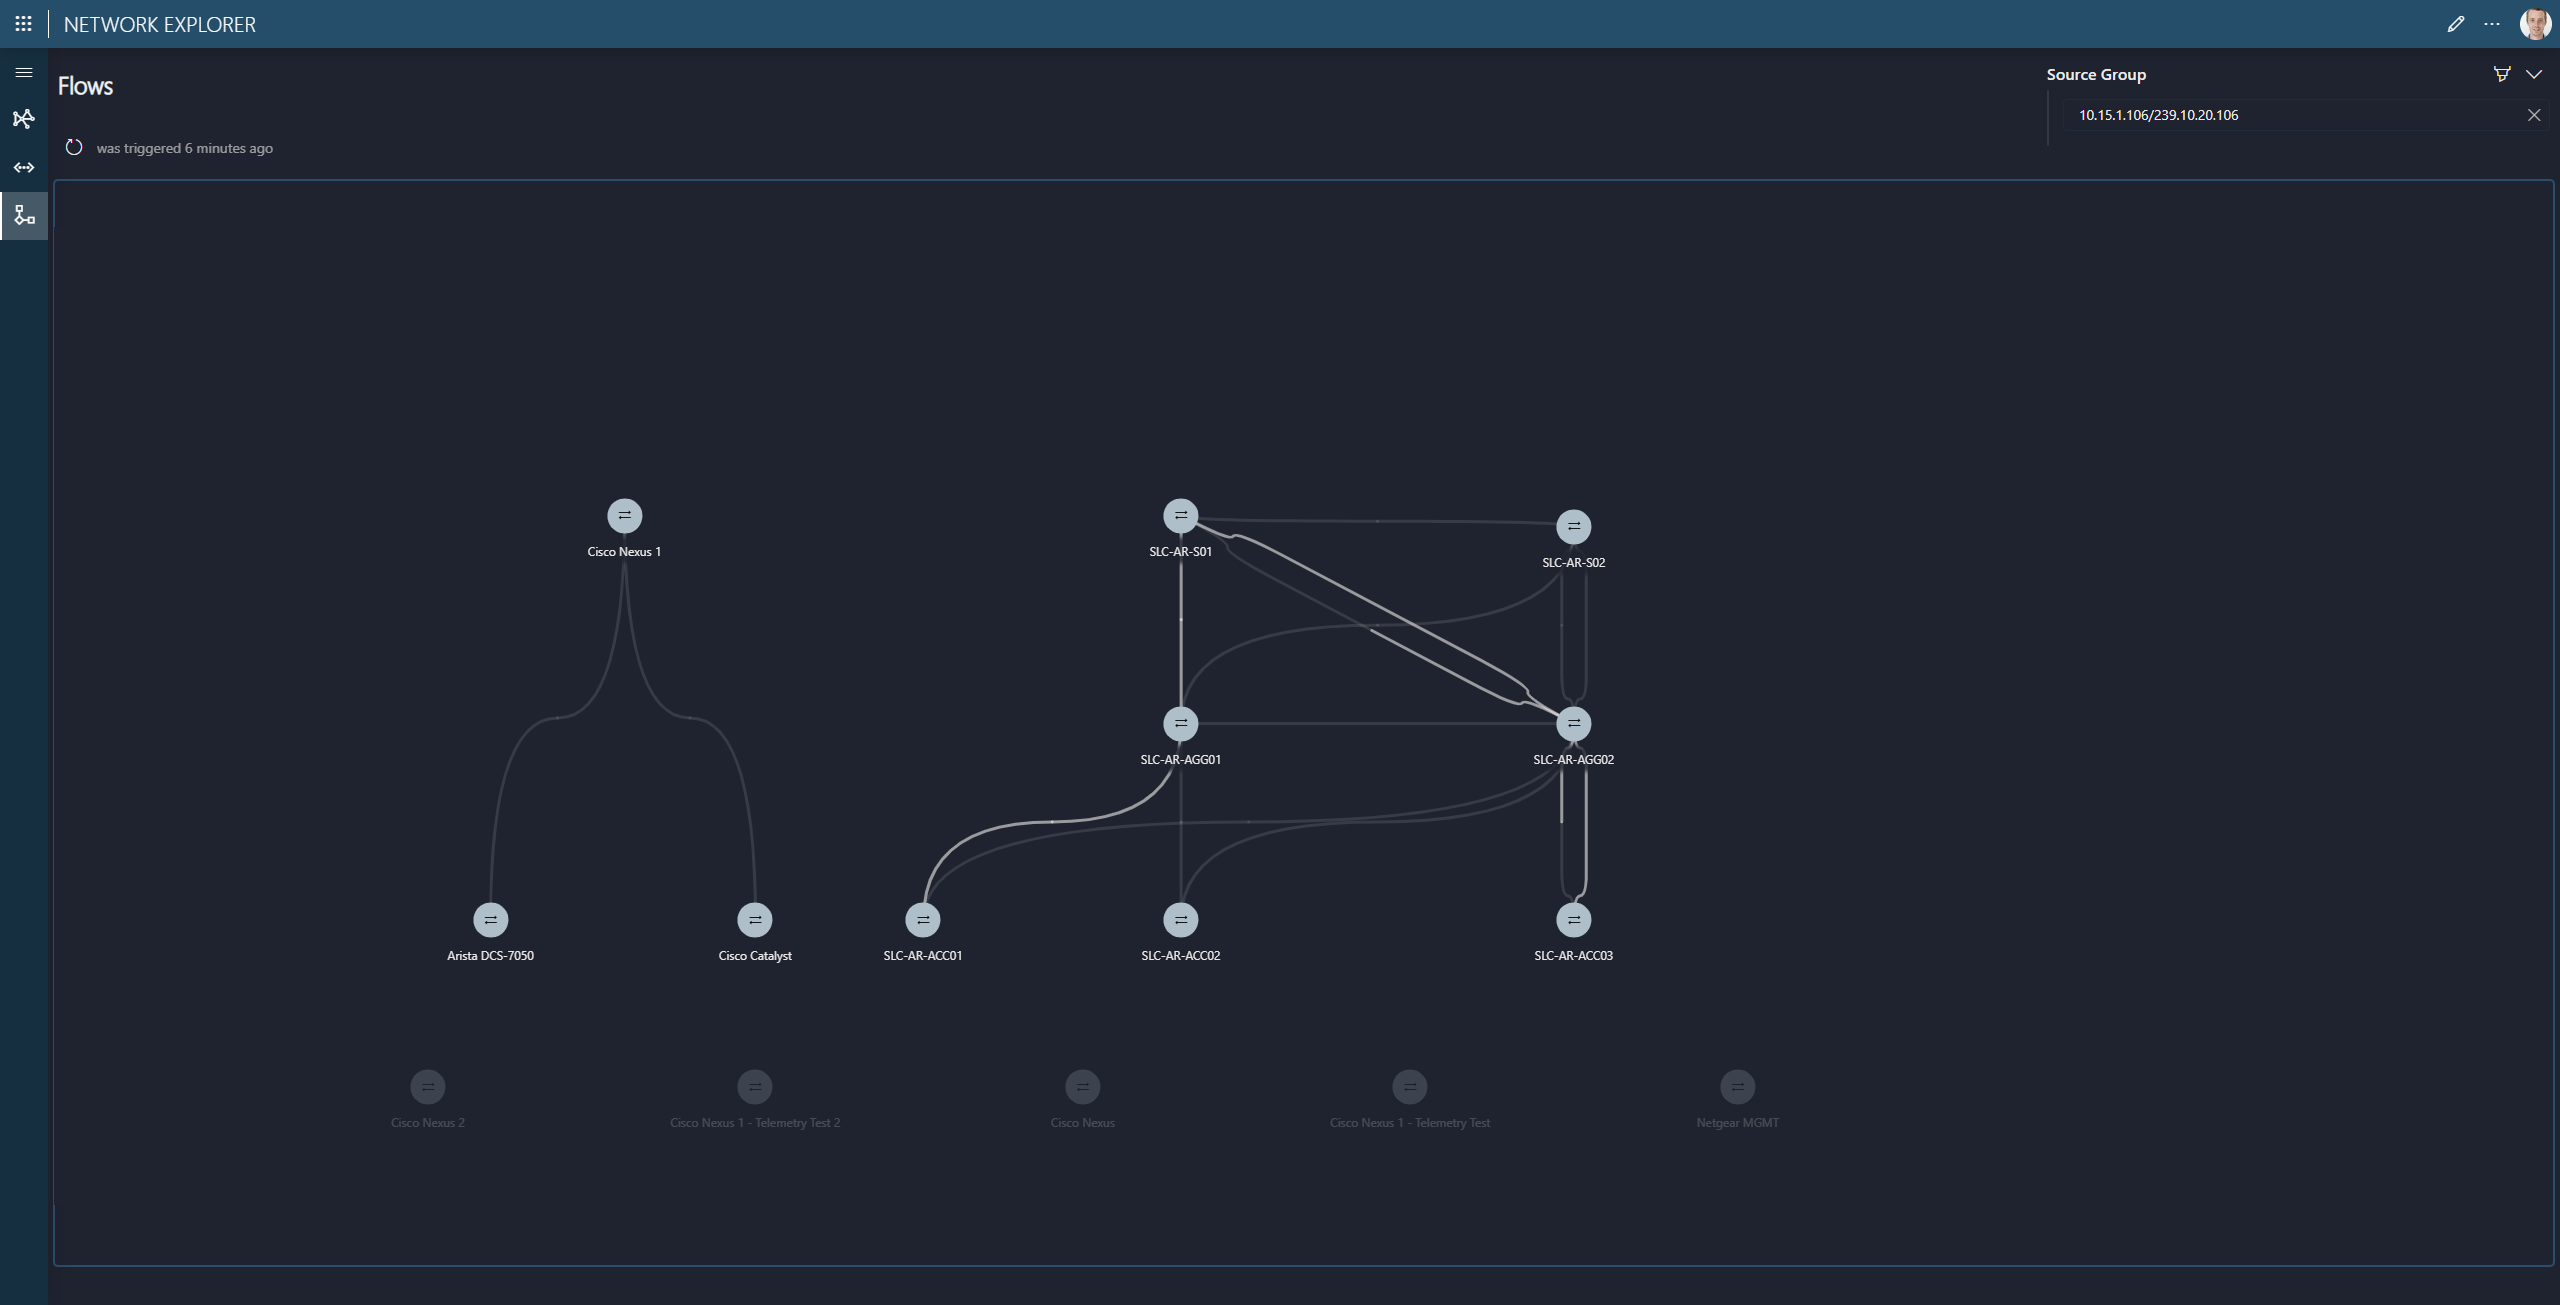
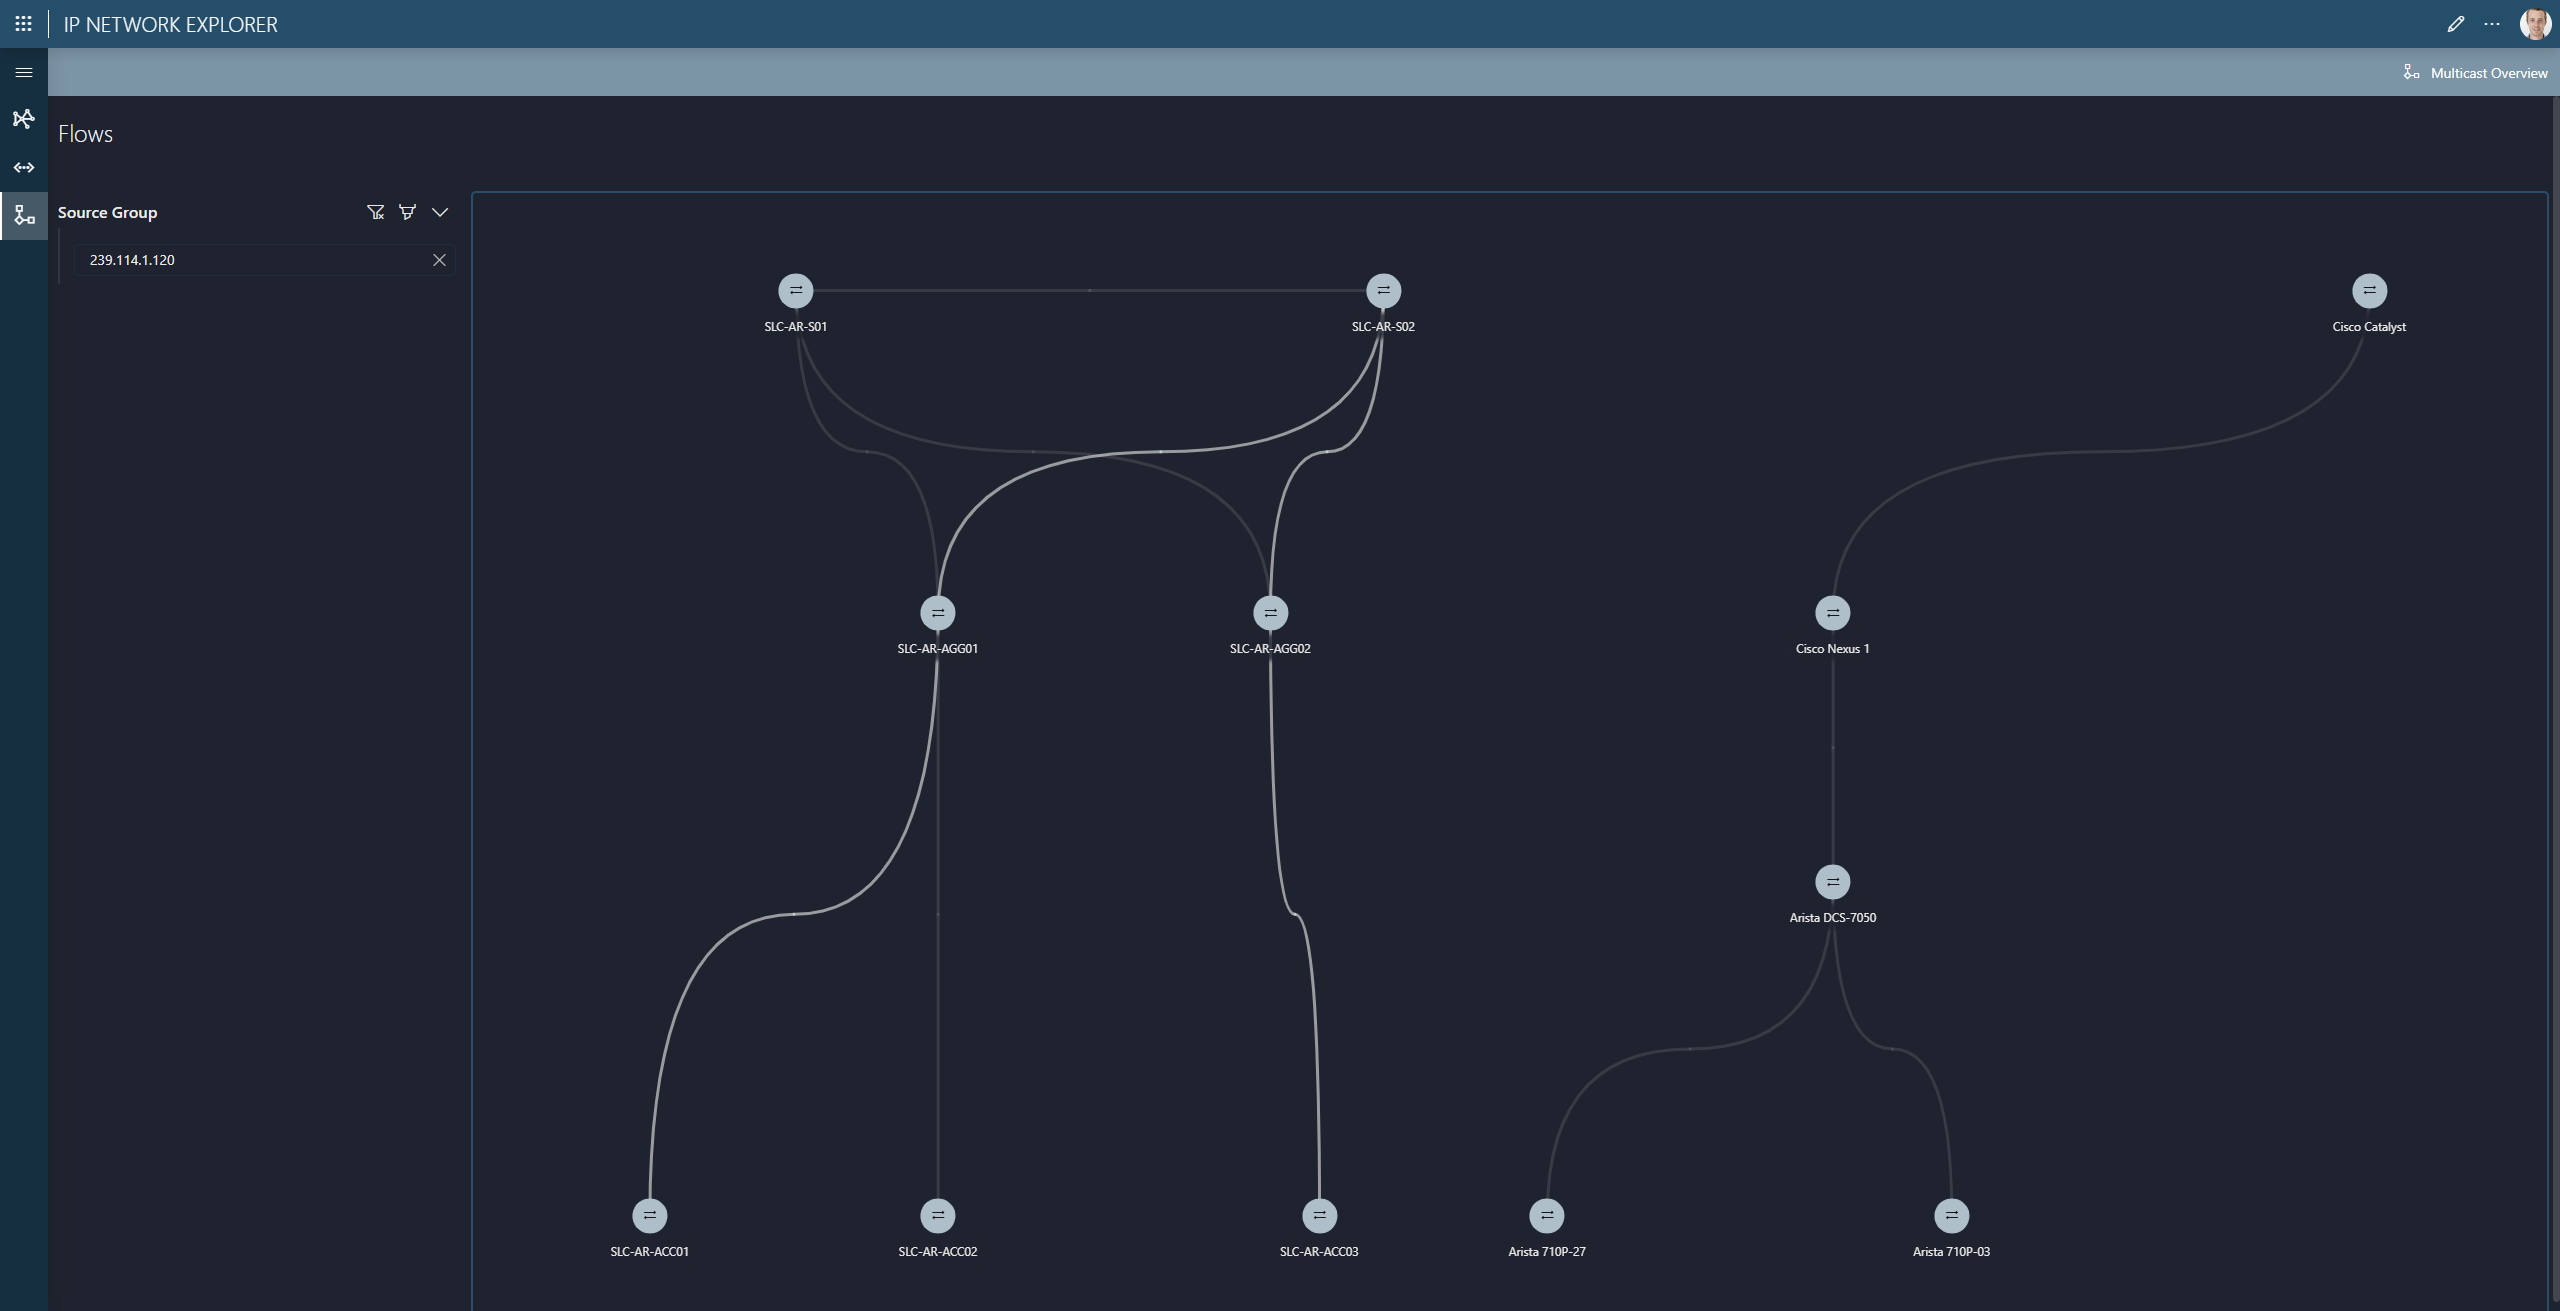
Added info on the new topologies feature

diff --git a/solutions/standard_solutions/IP_Network_Explorer/NetworkExplorer_UI_overview.md b/solutions/standard_solutions/IP_Network_Explorer/NetworkExplorer_UI_overview.md
@@ -12,6 +12,16 @@ Both network devices and connections are color-coded to reflect their status.
 
 Click any [device](#device-details) or [connection](#connection-details) to view more details.
 
+A topology selector is available in the upper right-hand corner of the Topology view.
+This dropdown allows you to select one of the available topologies to display.
+Topologies make it possible to:
+- Visualize the same network segments in different ways
+- Focus on specific parts of the network
+- Create clearer overviews for different operational needs
+- Separate logical, geographical, or functional network structures
+
+When a topology is selected, the view updates immediately to reflect the chosen configuration.
+
 ![Topology](~/solutions/images/NS_manual_topology.png)
 
 When hovering over a connection, you can use the dot in the upper-right corner of the details window to choose which metric is displayed and used to color the lines.
@@ -52,7 +62,7 @@ Using the Compare button in the menu bar, you can view the ports of two devices 
 
 The **Flows** page is similar to the **Topology** page but is specifically used to track multicast traffic in your network.
 
-Use the **filter box** in the top-right corner to find a multicast flow.
+Use the **filter box** on the left-hand side to find a multicast flow.
 
 You can filter by:
 
@@ -64,6 +74,39 @@ You can filter by:
 
 ## Application settings
 
-In the application settings window, you can update the default IP scan range and adjust the automatic removal behavior for removed connections.
+In the application settings window, you can manage the different topologies, update the default IP scan range and adjust the automatic removal behavior for removed connections.
 
 To access the application settings, click the *About* button in the top-right corner and then click the *Settings* button at the top of window.
+
+![Settings](~/solutions/images/NS_manual_settings.png)
+
+### Topology settings
+
+You can also use the ADD button in the upper right-hand corner of the application to create a new topology.
+In the overview list of the topologies you can use the pencil icon to Edit an existing topology or the trashcan icon to Delete a topology.
+
+#### Creating a Topology
+
+When creating a new topology, the following information is required:
+
+1. Unique Name
+
+Each topology must have a unique name.
+This name will appear in the topology selection dropdown.
+
+1. View Selection
+
+You must select a View.
+The selected view determines which network elements are displayed in the topology.
+
+Only elements that are:
+- Present in the selected view
+- Present in its subviews
+
+will be included in the topology.
+
+This allows you to create filtered and purpose-driven network visualizations based on your existing view structure.
+
+Changes take effect immediately and will be reflected in the topology selector.
+
+![ADD Topology](~/solutions/images/NS_manual_add_topology.png)

diff --git a/solutions/standard_solutions/IP_Network_Explorer/NetworkExplorer_Supported_Devices_and_Protocols.md b/solutions/standard_solutions/IP_Network_Explorer/NetworkExplorer_Supported_Devices_and_Protocols.md
@@ -12,6 +12,7 @@ The IP Network Explorer supports all equipment that can be monitored using the f
 - Arista eOS Manager
 - Cisco Nexus
 - Cisco NxOS Manager
+- Cisco XrOS Manager
 - Cisco Manager
 - Huawei Manager
 
